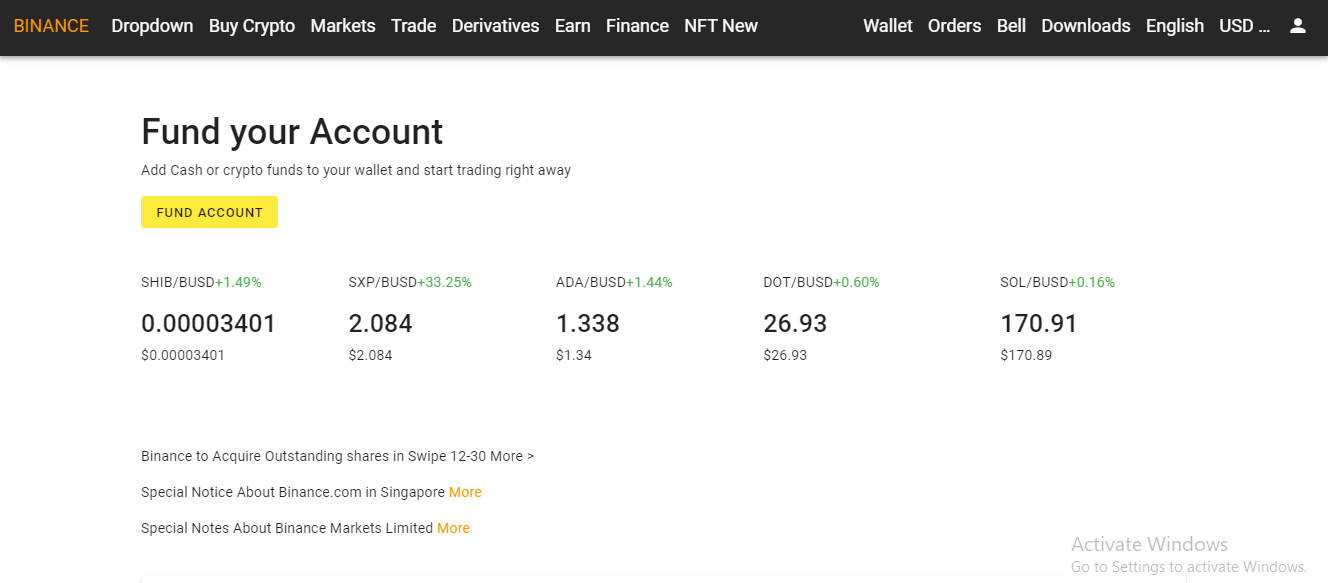
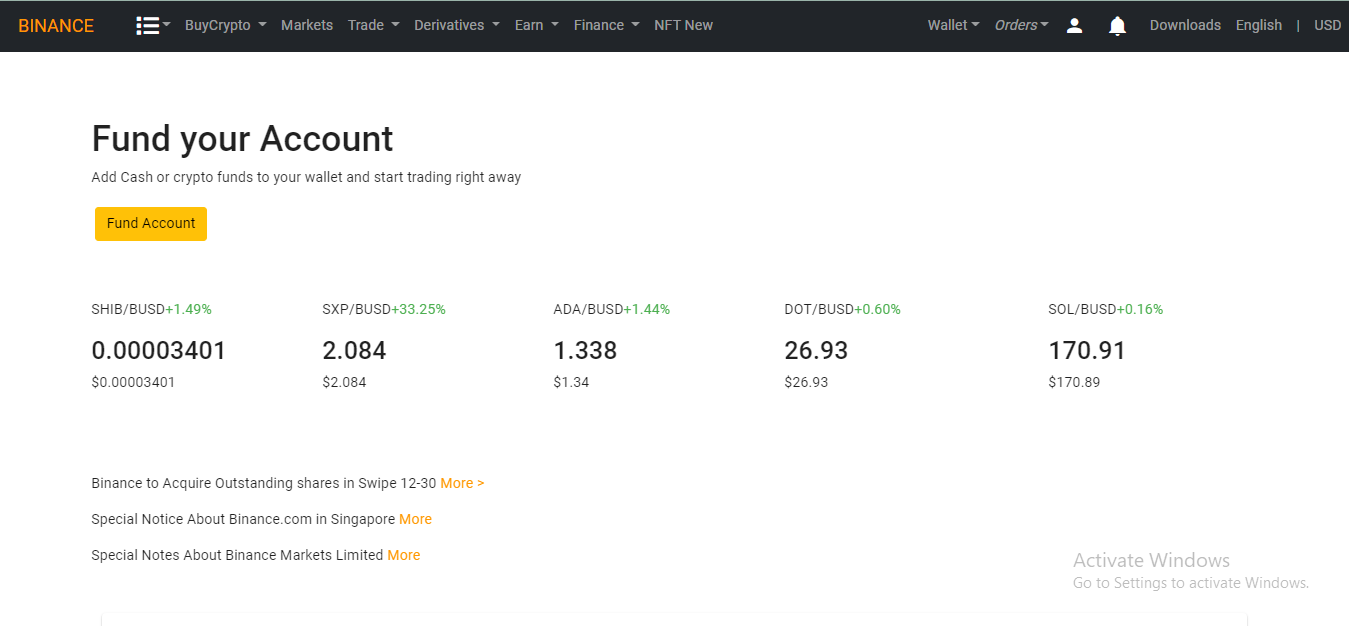
last commit

diff --git a/src/components/MainHeader.vue b/src/components/MainHeader.vue
@@ -1,5 +1,5 @@
 <template>
-    <div>
+    <div class="fixed-top">
       <b-navbar toggleable="lg" type="dark" variant="dark">
         <b-navbar-brand href="#"
           ><span class="ml-5 orange--text">BINANCE</span></b-navbar-brand
